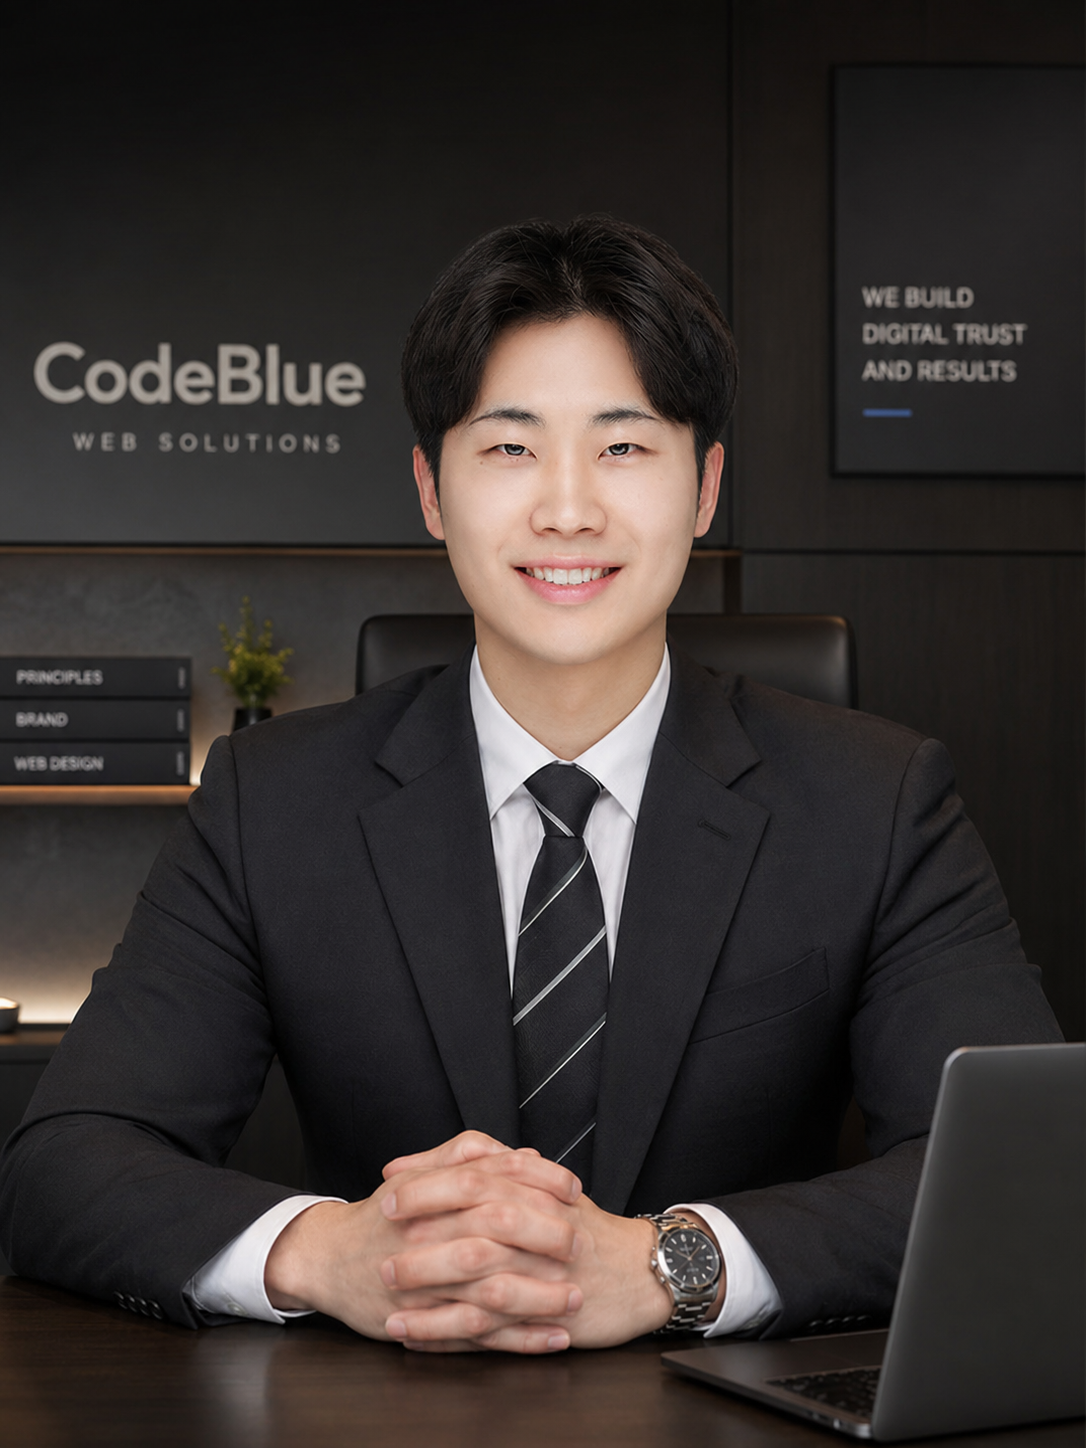
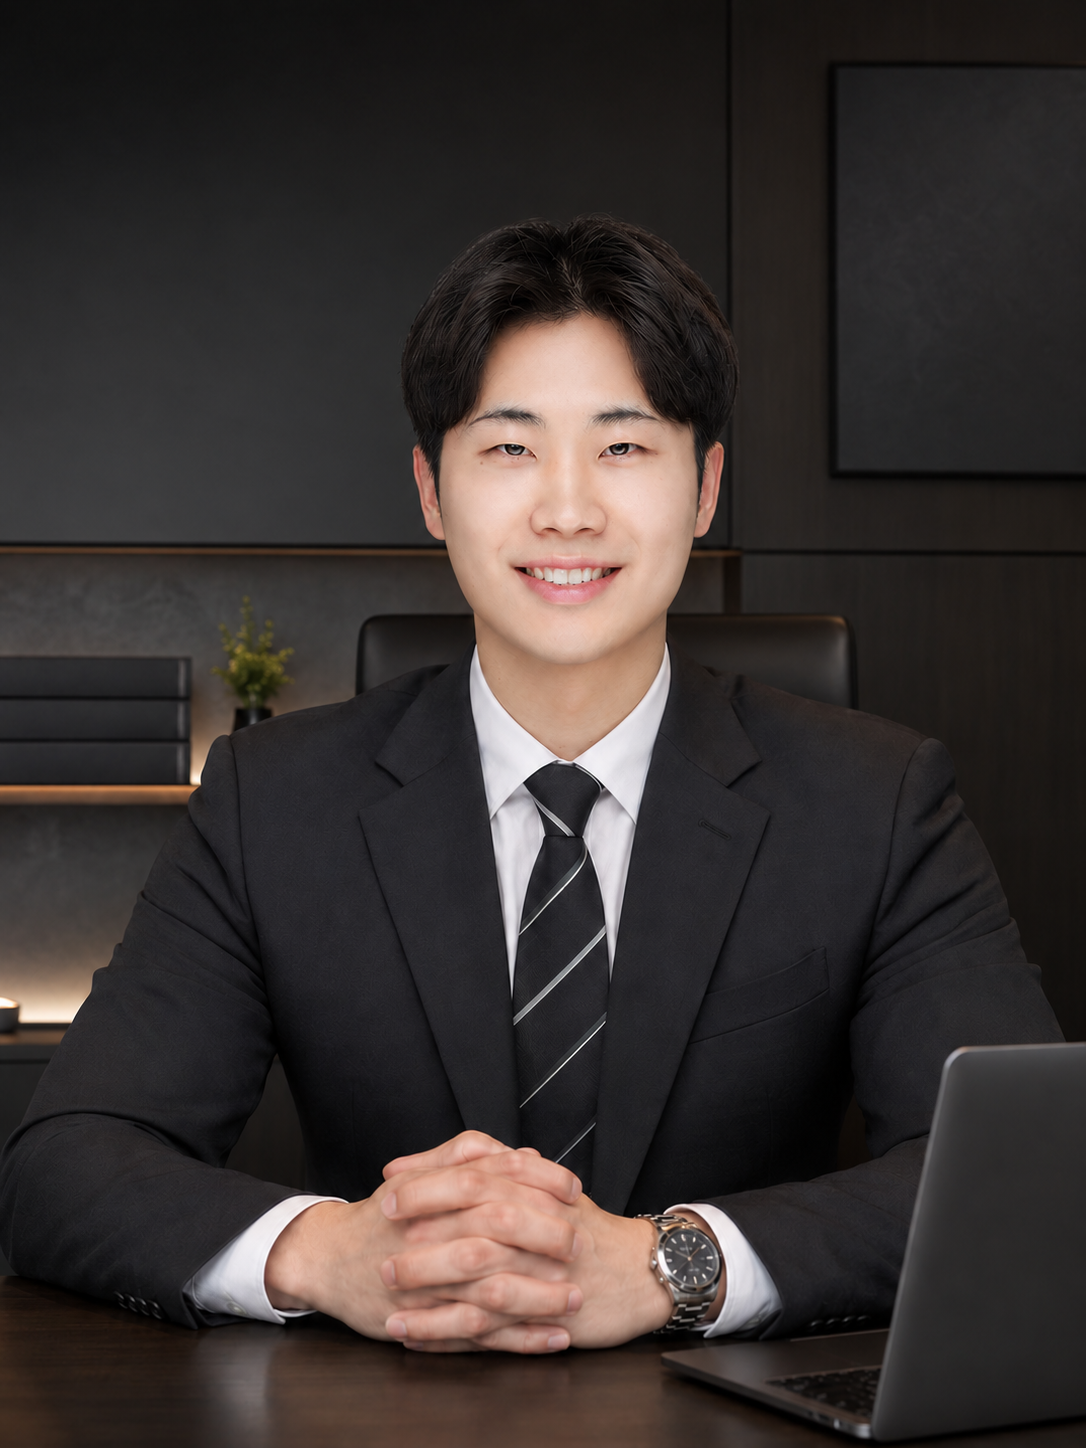
Detect Telegram ok:false failures and update founder photo
- Treat Telegram API responses with body ok:false as failures and log the
  diagnostic description (never the token)
- Add tests for the ok:false path
- Replace founder profile photo assets

diff --git a/src/lib/telegram/send-telegram-notification.ts b/src/lib/telegram/send-telegram-notification.ts
@@ -119,10 +119,24 @@ export async function sendTelegramNotification(
       signal: controller.signal,
     });
 
-    if (!response.ok) {
-      // 응답 본문(에러 설명 등)은 내부 토큰/Chat ID를 반향(echo)할 수 있어 로그에 남기지
-      // 않는다 — 상태 코드만 기록한다.
-      console.error(`[sendTelegramNotification] Telegram API 응답 실패: HTTP ${response.status}`);
+    // Telegram이 항상 HTTP 상태 코드로만 실패를 알리는 것은 아니다 — 응답 본문의
+    // `ok` 필드가 최종 판정 기준이다. HTTP 상태만 보고 성공으로 간주하면 `ok: false`
+    // 응답(예: chat not found, bot was blocked by the user)을 성공으로 오판할 수 있다.
+    let body: { ok?: boolean; description?: string; error_code?: number } | undefined;
+    try {
+      body = await response.json();
+    } catch {
+      // 본문을 JSON으로 파싱할 수 없는 경우(빈 응답 등) — 아래에서 HTTP 상태만으로 판정한다.
+    }
+
+    if (!response.ok || !body?.ok) {
+      // 응답 본문의 `description`은 Telegram이 생성한 진단 메시지(예: "chat not found",
+      // "bot was blocked by the user")일 뿐 토큰/Chat ID를 반향(echo)하지 않으므로 안전하게
+      // 로그에 남길 수 있다 — 토큰 자체는 절대 포함하지 않는다.
+      const detail = body?.description ? `, ${body.description}` : "";
+      console.error(
+        `[sendTelegramNotification] Telegram API 응답 실패: HTTP ${response.status}${detail}`,
+      );
       return { success: false, reason: "http_error" };
     }
 

diff --git a/tests/send-telegram-notification.test.ts b/tests/send-telegram-notification.test.ts
@@ -71,6 +71,13 @@ function mockFetchHttpError(status: number) {
   }) as typeof fetch;
 }
 
+function mockFetchOkStatusButApiFailure(description: string) {
+  globalThis.fetch = (async (url: string, init?: RequestInit) => {
+    fetchCalls.push({ url, init });
+    return new Response(JSON.stringify({ ok: false, error_code: 403, description }), { status: 200 });
+  }) as typeof fetch;
+}
+
 function mockFetchNetworkError() {
   globalThis.fetch = (async () => {
     throw new Error("network down");
@@ -124,6 +131,18 @@ describe("sendTelegramNotification", () => {
     // 로그에 상태 코드는 남기되, 봇 토큰 값 자체는 절대 남기지 않는다.
     const joined = consoleOutput.join("\n");
     assert.match(joined, /401/);
+    assert.doesNotMatch(joined, /test-bot-token/);
+  });
+
+  test("HTTP 상태는 200이어도 응답 본문의 ok가 false면 성공으로 처리하지 않는다", async () => {
+    setEnv("test-bot-token", "12345");
+    mockFetchOkStatusButApiFailure("bot was blocked by the user");
+
+    const result = await sendTelegramNotification();
+
+    assert.deepEqual(result, { success: false, reason: "http_error" });
+    const joined = consoleOutput.join("\n");
+    assert.match(joined, /bot was blocked by the user/);
     assert.doesNotMatch(joined, /test-bot-token/);
   });
 

diff --git a/src/lib/constants/founder.ts b/src/lib/constants/founder.ts
@@ -1,5 +1,5 @@
 /**
- * 대표자 소개 섹션(FounderSection) 사진 경로(2026-08-18: 실제 사진 반영).
+ * 대표자 소개 섹션(FounderSection) 사진 경로(2026-09-06: 새 대표 사진으로 교체).
  *
  * `public/images/founder/yeo-sanghyeon-profile.webp` — 원본 PNG(EXIF/위치정보 없음
  * 확인됨)를 sharp(Next.js가 이미지 최적화용으로 이미 설치해 둔 패키지, 새 의존성 추가
